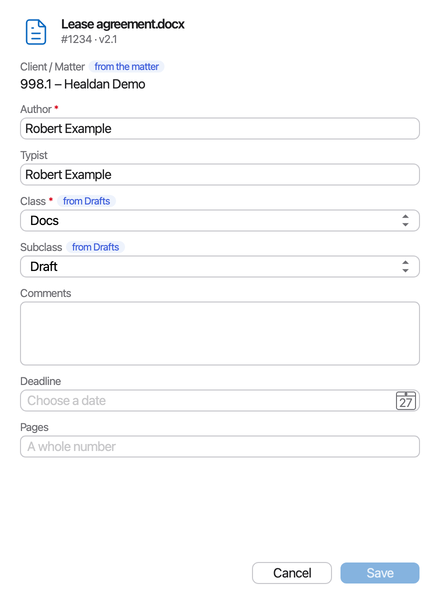
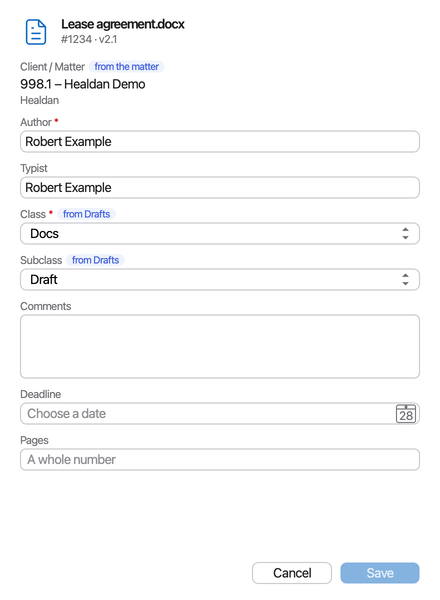
Draw the User Guide's helper pictures with the matter's client
Open's, Save's and Properties' pictures are drawn again from the polished
windows, now that #93 has landed, with the light renders halved to the
site's 1x size and stripped as before. Each shows the client: Open's
Client row, Save's crumb and Client / Matter line, and Properties' Client /
Matter line. The test data names client 998 "Healdan" and the Store
"Client Work", as the pages' examples do. The alt text says so.

Changed region(s): [[0.0295, 0.15, 0.975, 0.54], [0.0295, 0.6, 0.975, 0.81]]

diff --git a/site/content/user/office/opening-documents/index.md b/site/content/user/office/opening-documents/index.md
@@ -34,7 +34,7 @@ Double-clicking a document in the web page still shows its preview.
 Any of LibreOffice's ways of opening shows the **Open from Healdan** window: **⌘O**, **File › Open**, **Open File**
 in the Start Center, and **Healdan › Open from Healdan…**. So does **Open from Healdan…** in the helper's menu.
 
-![The Open from Healdan window: Recent Documents listed in the middle, Lease agreement.docx selected and checked out to you on MacBook, and its details on the right, under a header with its name, #1234 and v2.1, and Properties and Versions tabs, with Properties showing](open-from-healdan.png)
+![The Open from Healdan window: Recent Documents listed in the middle, Lease agreement.docx selected and checked out to you on MacBook, and its details on the right, under a header with its name, #1234 and v2.1, and Properties and Versions tabs, with Properties showing, its Client row under Matter](open-from-healdan.png)
 
 - **On the left:** Recent Documents (where it starts), Checked Out to Me and Favorites, then Recent Matters, My
   Matters and Recent Folders to browse.

diff --git a/site/content/user/office/editing-and-versions/index.md b/site/content/user/office/editing-and-versions/index.md
@@ -67,7 +67,7 @@ Choose where it goes, change what you need to, and save. Then:
 Choose **Healdan › Properties…**, or **Properties** on the Healdan toolbar, to see or change the document's
 properties without leaving LibreOffice. They're the properties of the Ext. Properties tab in the web page.
 
-![The Properties window for #1234: a header with the document's icon, Lease agreement.docx, and #1234 · v2.1, then Client / Matter 998.1 – Healdan Demo from the matter, Author and Typist, Class and Subclass from Drafts, Comments, and two more properties, with Cancel and Save](properties.png)
+![The Properties window for #1234: a header with the document's icon, Lease agreement.docx, and #1234 · v2.1, then Client / Matter 998.1 – Healdan Demo from the matter, with the client Healdan under it, Author and Typist, Class and Subclass from Drafts, Comments, and two more properties, with Cancel and Save](properties.png)
 
 - **Client / Matter,** marked "from the matter", shows the matter, with its client's name under it. It can't be
   changed here.

diff --git a/site/content/user/office/saving-to-healdan/index.md b/site/content/user/office/saving-to-healdan/index.md
@@ -17,7 +17,7 @@ On a document that isn't in Healdan yet, any of these opens Save to Healdan:
 - **Healdan › Save to Healdan…**, or **Save to Healdan** on the Healdan toolbar;
 - **Save** when LibreOffice asks whether to save your changes as you close the document.
 
-![The Save to Healdan window: places on the left, matter 998.1 – Healdan Demo's Documents folder in the middle with its Drafts folder selected, and the new document's properties on the right, with a File Format pop-up under the properties showing OpenDocument Text (.odt)](save-to-healdan.png)
+![The Save to Healdan window: places on the left, matter 998.1 – Healdan Demo's Documents folder in the middle, its client Healdan and Store Client Work beside the matter, with the Drafts folder selected, and the new document's properties on the right, Client / Matter showing the matter with Healdan under it, with a File Format pop-up under the properties showing OpenDocument Text (.odt)](save-to-healdan.png)
 
 ## Choosing a Folder
 
